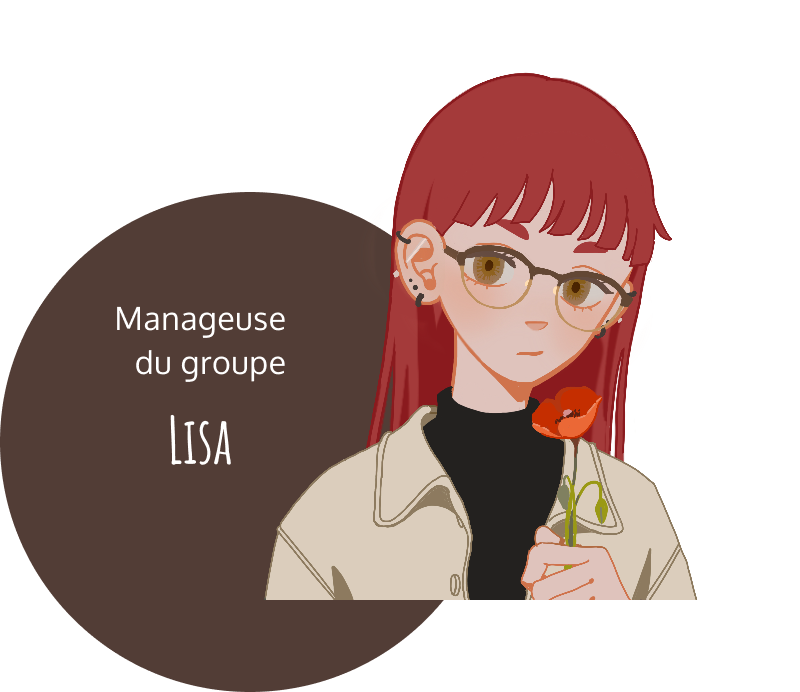
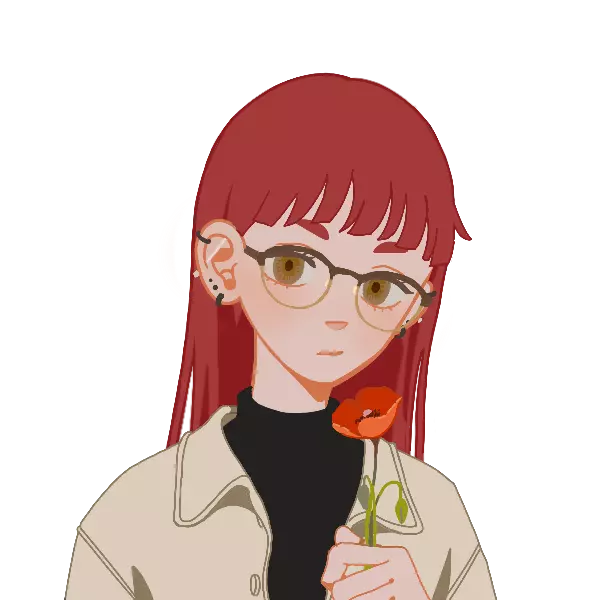
modif img

diff --git a/Projet_Groupe3/src/components/Members.vue b/Projet_Groupe3/src/components/Members.vue
@@ -14,7 +14,7 @@ import linkedin from '@/components/icons/linkedin.vue';
                     </a>
                 </div>
             </div>
-            <img src="/img/lisa2.webp" alt="Image" class="absolute top-0 right-0 w-56">
+            <img src="/img/lisa.webp" alt="Image" class="absolute top-0 right-0 w-56">
         </div>
 
         <div class="relative flex flex-col items-center md:w-[450px]">
@@ -28,7 +28,7 @@ import linkedin from '@/components/icons/linkedin.vue';
                     </a>
                 </div>
             </div>
-            <img src="/img/julia2.webp" alt="Image" class="absolute top-0 left-0 w-56">
+            <img src="/img/julia.webp" alt="Image" class="absolute top-0 left-0 w-56">
         </div>
 
         <div class="relative flex flex-col items-center md:w-[450px]">
@@ -42,7 +42,7 @@ import linkedin from '@/components/icons/linkedin.vue';
                     </a>
                 </div>
             </div>
-            <img src="/img/jael2.webp" alt="Image" class="absolute top-0 right-0 w-56">
+            <img src="/img/jael.webp" alt="Image" class="absolute top-0 right-0 w-56">
         </div>
     </div>
 </template>

diff --git a/Projet_Groupe3/src/pages/productors.vue b/Projet_Groupe3/src/pages/productors.vue
@@ -3,5 +3,21 @@
 </script>
 
 <template>
-
+    <div class="relative">
+        <img src="/img/title-pic.webp" alt="épis de blé" class="w-full">
+        <div class="absolute top-0 left-0 flex items-center justify-center w-full h-full">
+            <h1 class="top-banner">Nos producteurs</h1>
+        </div>
+    </div>
+    <div class="px-[8vw] py-6">
+        <h2 class="mb-4 leading-tight">Agriculteurs, Fermiers... Ils sont les producteurs de la Cagette Fermière</h2>
+            
+            <img class="mx-auto my-8 lg:m-0 lg:h-[100px] xl:h-[150px]" src="/img/partenaire-1.webp"
+                alt="Lot et Garonne, le département coeur du Sud-Ouest">
+            <img class="mx-auto my-8 lg:m-0 lg:h-[100px] xl:h-[150px]" src="/img/partenaire-2.webp"
+                alt="Tomates Concombres, l'association nationale de producteurs">
+            <img class="mx-auto my-8 lg:m-0 lg:h-[100px] xl:h-[150px]" src="/img/partenaire-3.webp"
+                alt="Union nationale du commerce de gros de fruits et légumes">
+        </div>
+    </div>
 </template>
